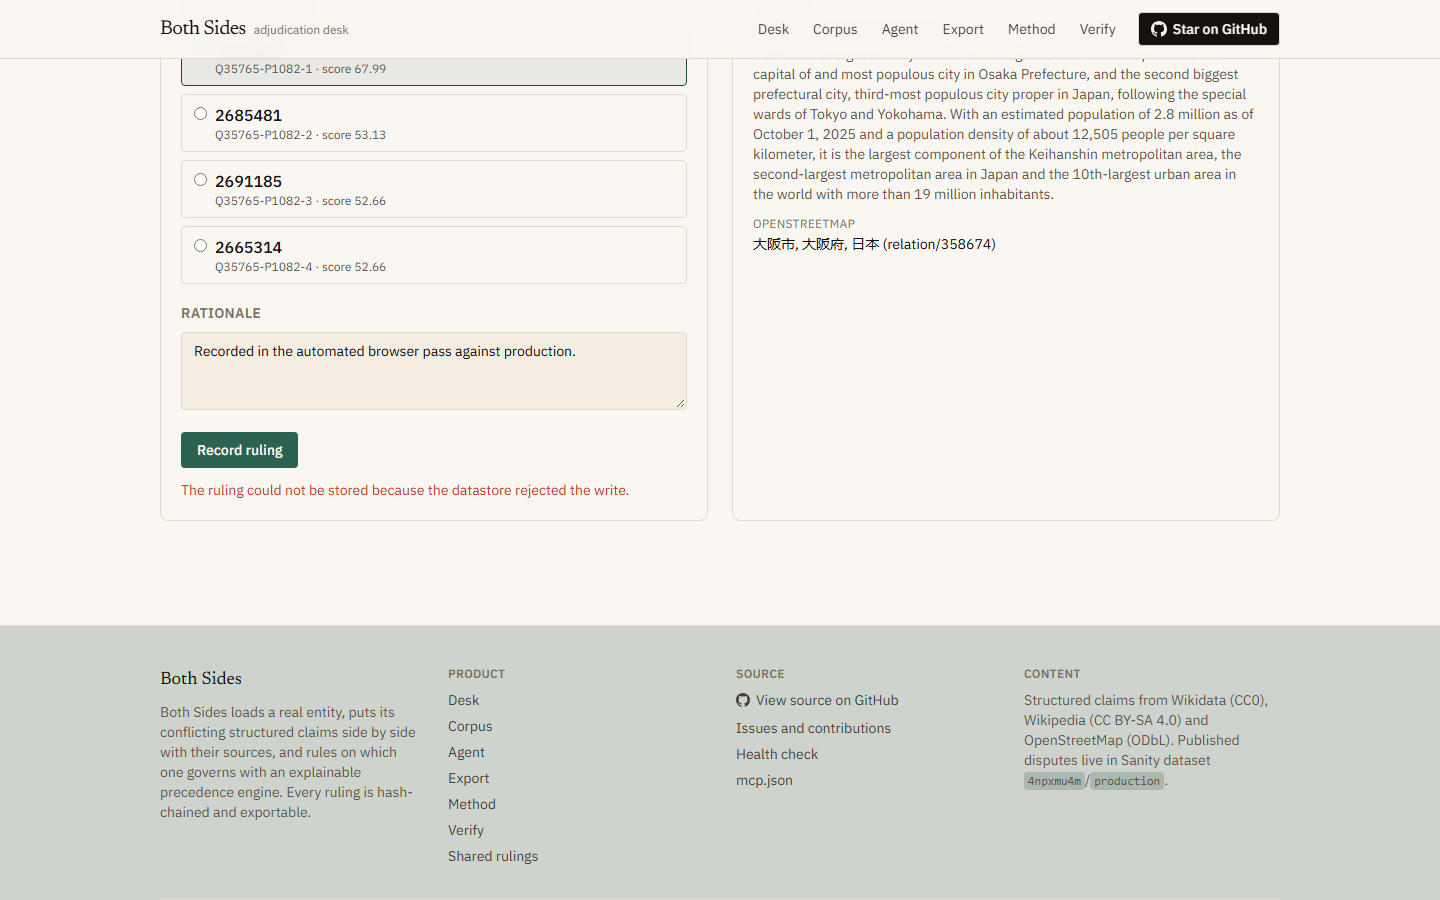
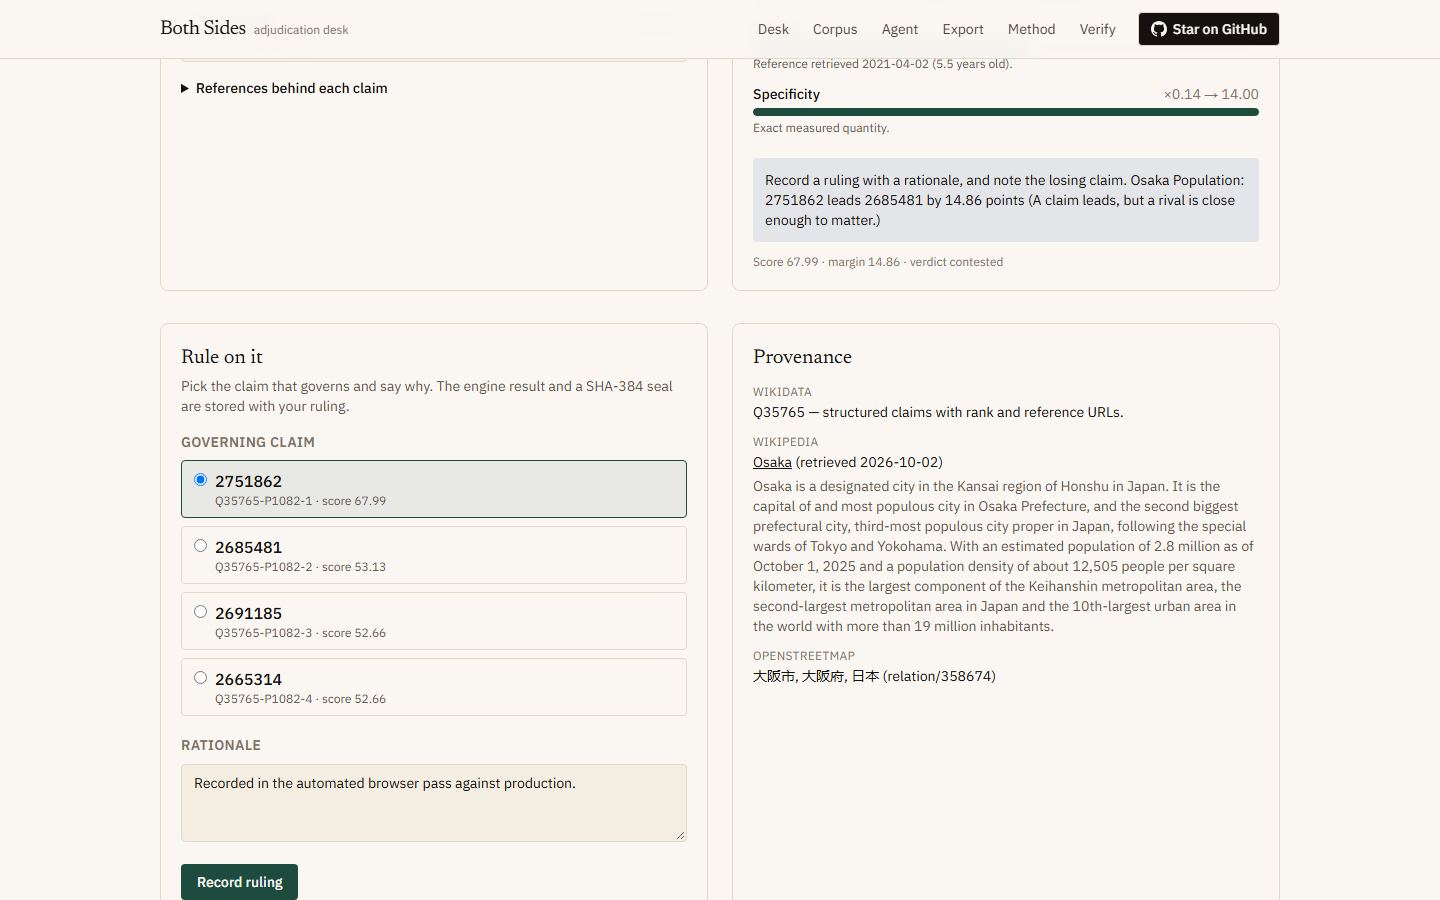
Scope idempotency keys per session, and prove it with a test that would have caught the bug
The intermittent ruling-write 503 is understood, and it was never intermittent:
it was deterministic after the first browser pass. The idempotency table keyed
rows on `key` alone, but the lookup filtered on key plus scope. The browser form
builds a deterministic key from entity, property, chosen claim and rationale, so
every pass after the first presented a key that already existed under a
different scope, the insert violated the primary key, and the endpoint returned
503. Scripted checks never saw it because they mint a fresh key per run with
Date.now().

- Migration 001 re-keys the table to (key, scope_id), deduplicating legacy rows
  first and keeping the newest write per key, with a named replacement
  constraint that makes reruns a no-op. Proven against real PGlite: newest kept,
  same key with a third scope inserts, same key with the same scope is still
  rejected, and a second run changes nothing.
- The statement list is now explicit rather than split on semicolons, because
  the migration block contains semicolons of its own.
- The verifier gains a cross-scope check: the same key presented by a fresh
  session must create its own ruling instead of replaying someone else's.

Local journey: 77 of 77 checks pass, including that new assertion.

diff --git a/web/src/lib/db.ts b/web/src/lib/db.ts
@@ -69,8 +69,8 @@ interface Schema {
   };
 }
 
-const SCHEMA_SQL = `
-create table if not exists rulings (
+const SCHEMA_STATEMENTS: string[] = [
+  `create table if not exists rulings (
   id text primary key,
   scope_id text not null,
   entity_id text not null,
@@ -90,12 +90,12 @@ create table if not exists rulings (
   updated_at text not null,
   seal text not null,
   share_token text
-);
-create index if not exists rulings_scope_idx on rulings (scope_id, created_at desc);
-create index if not exists rulings_dispute_idx on rulings (entity_id, property_id);
-create unique index if not exists rulings_share_idx on rulings (share_token) where share_token is not null;
+)`,
+  'create index if not exists rulings_scope_idx on rulings (scope_id, created_at desc)',
+  'create index if not exists rulings_dispute_idx on rulings (entity_id, property_id)',
+  'create unique index if not exists rulings_share_idx on rulings (share_token) where share_token is not null',
 
-create table if not exists audit_events (
+  `create table if not exists audit_events (
   ruling_id text not null,
   seq integer not null,
   at text not null,
@@ -105,16 +105,16 @@ create table if not exists audit_events (
   prev_seal text not null,
   seal text not null,
   primary key (ruling_id, seq)
-);
+)`,
 
-create table if not exists idempotency (
-  key text primary key,
+  `create table if not exists idempotency (
+  key text not null,
   scope_id text not null,
   ruling_id text not null,
   created_at text not null
-);
+)`,
 
-create table if not exists imported_entities (
+  `create table if not exists imported_entities (
   entity_id text primary key,
   scope_id text not null,
   label text not null,
@@ -123,9 +123,26 @@ create table if not exists imported_entities (
   fetched_at text not null,
   source text not null,
   created_at text not null
-);
-create index if not exists imported_scope_idx on imported_entities (scope_id, created_at desc);
-`;
+)`,
+  'create index if not exists imported_scope_idx on imported_entities (scope_id, created_at desc)',
+
+  // Migration 001: idempotency keys are scoped. The original table keyed rows
+  // on `key` alone, so two anonymous sessions reusing the same key collided on
+  // insert. Rows are deduplicated first, keeping the newest write per key.
+  `delete from idempotency a using idempotency b
+   where a.key = b.key and a.scope_id <> b.scope_id
+     and (a.created_at < b.created_at
+       or (a.created_at = b.created_at and a.scope_id > b.scope_id))`,
+  `do $$
+  begin
+    if exists (select 1 from pg_constraint where conname = 'idempotency_pkey') then
+      alter table idempotency drop constraint idempotency_pkey;
+    end if;
+    if not exists (select 1 from pg_constraint where conname = 'idempotency_scope_pkey') then
+      alter table idempotency add constraint idempotency_scope_pkey primary key (key, scope_id);
+    end if;
+  end $$`,
+];
 
 // Route bundles get separate module registries, so the adapter and the schema
 // promise are pinned to the process. Without this each route would open its own
@@ -241,14 +258,13 @@ export async function db(): Promise<SqlAdapter> {
   const a = await resolveAdapter();
   if (!cache.schemaReady) {
     cache.schemaReady = (async () => {
-      // Neon's extended protocol rejects multi-statement strings, so DDL is applied
-      // one statement at a time. Every statement is idempotent. A cold start can
-      // race another invocation on the same statements, so one retry is allowed.
+      // Statements arrive whole, never split: the migration block contains
+      // semicolons of its own. Every statement is idempotent, and a cold start
+      // can race another invocation, so one retry is allowed.
       for (let attempt = 1; attempt <= 2; attempt += 1) {
         try {
-          for (const raw of SCHEMA_SQL.split(';')) {
-            const stmt = raw.trim();
-            if (stmt) await a.execute(stmt);
+          for (const stmt of SCHEMA_STATEMENTS) {
+            await a.execute(stmt);
           }
           return;
         } catch (err) {
